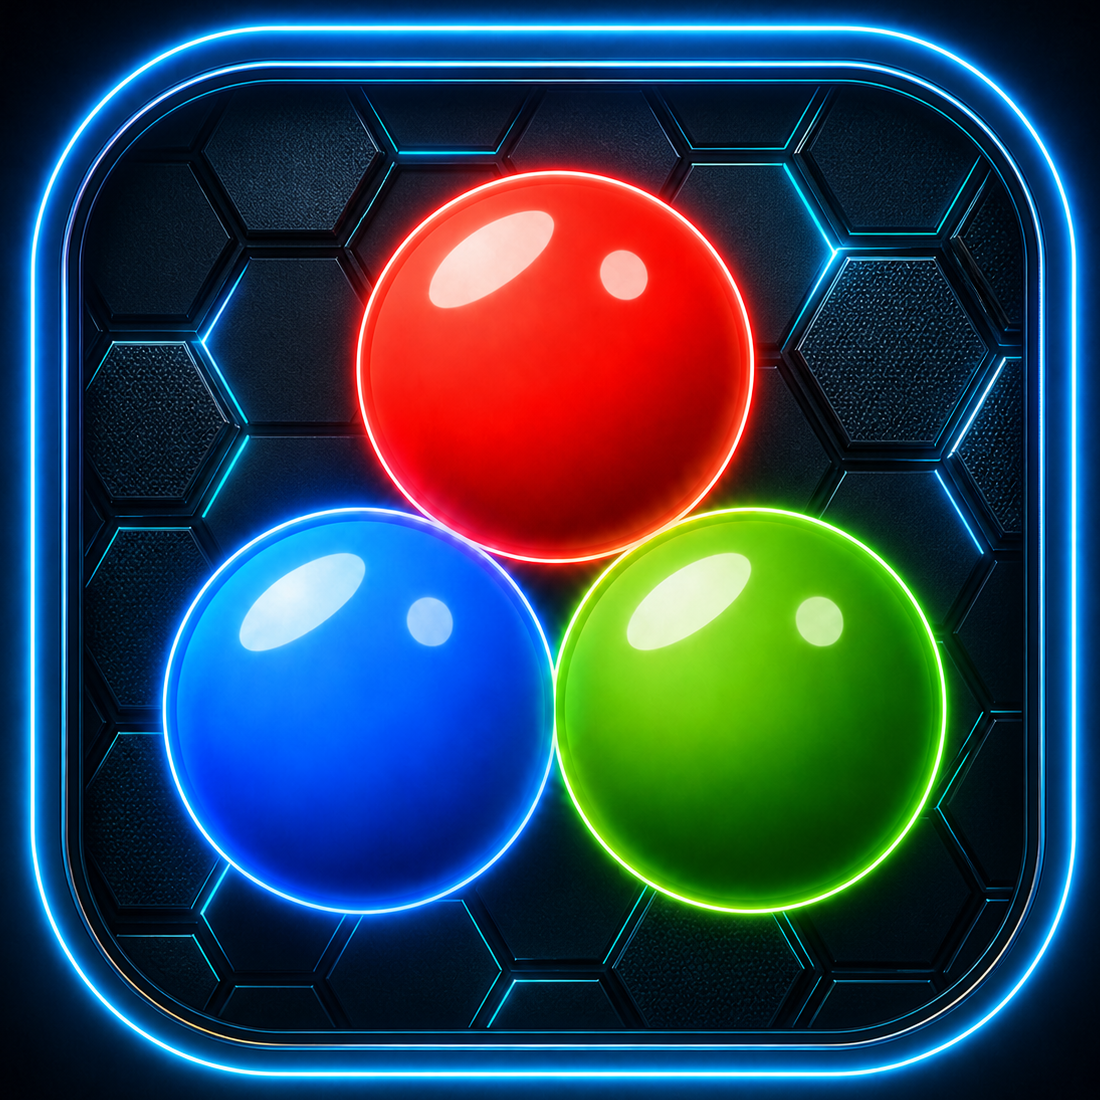
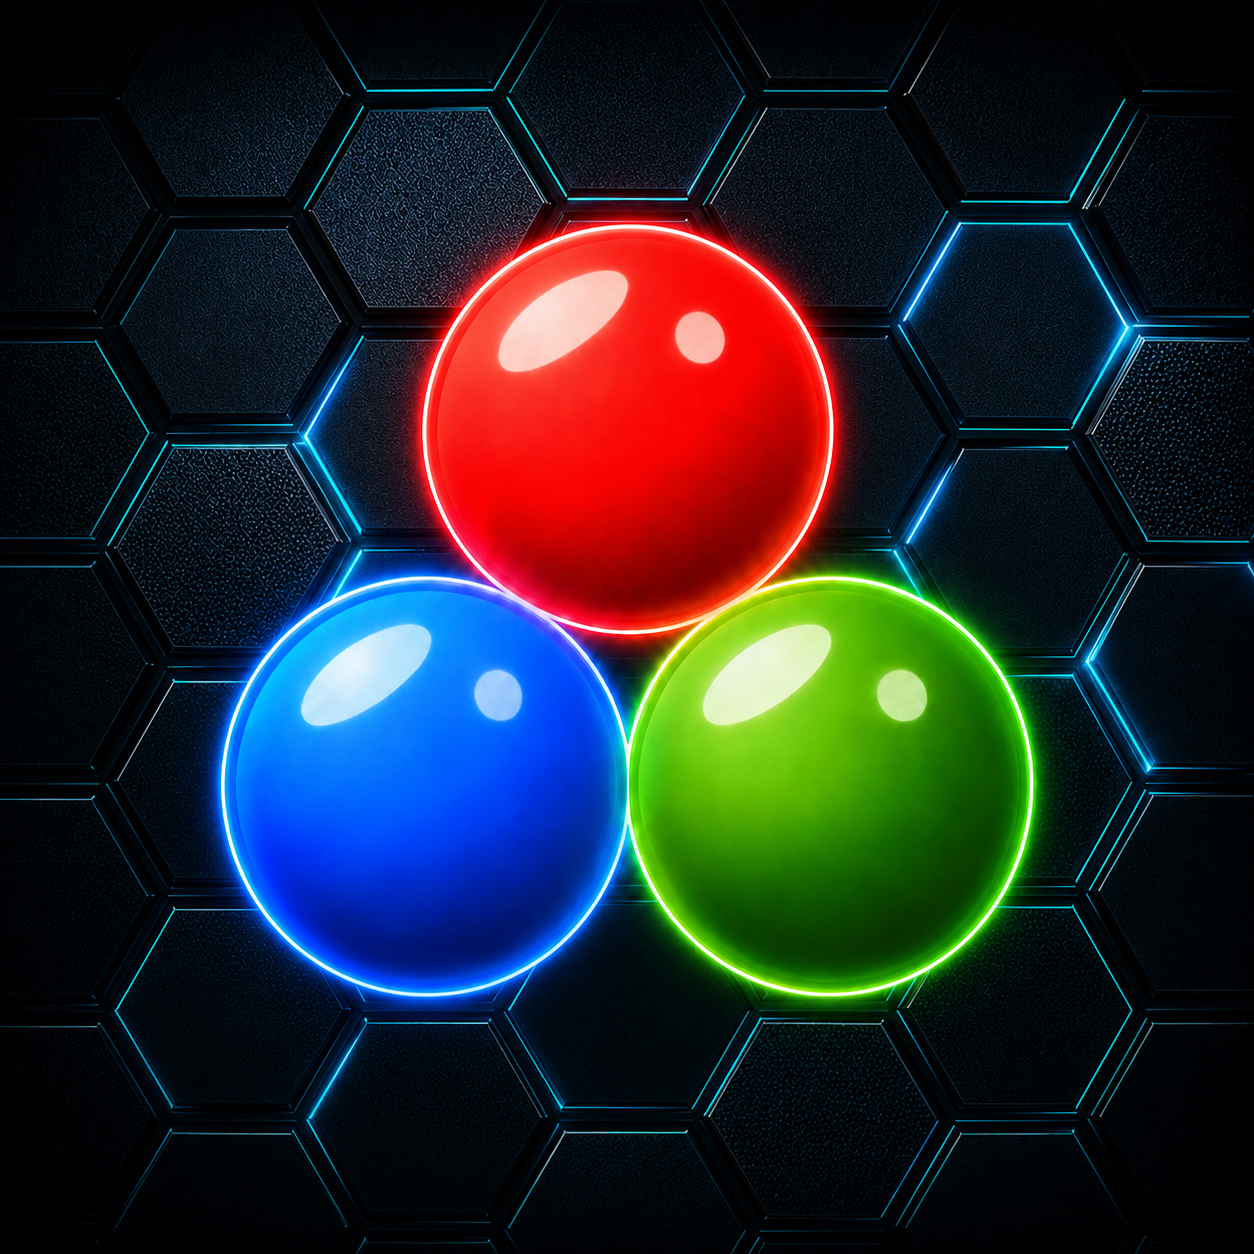
アイコンの変更と色々修正

diff --git a/lib/ui/game_screen.dart b/lib/ui/game_screen.dart
@@ -3345,6 +3345,7 @@ class _GameScreenState extends State<GameScreen> with WidgetsBindingObserver {
             currentX - startX >= targetDistance) {
           _tutorialRightMoveActive = false;
           _playerGame.stopMovingRight();
+          _playerGame.setFixedPieceX(startX + targetDistance);
           setState(() => _tutorialPhase = _TutorialPhase.step2Rotate);
         }
       case _TutorialPhase.step2Rotate:
@@ -3422,6 +3423,7 @@ class _GameScreenState extends State<GameScreen> with WidgetsBindingObserver {
       if (currentX != null && currentX - startX >= targetDistance) {
         _tutorialRightMoveActive = false;
         _playerGame.stopMovingRight();
+        _playerGame.setFixedPieceX(startX + targetDistance);
         setState(() => _tutorialPhase = _TutorialPhase.step1Drop);
         return;
       }
@@ -3443,6 +3445,7 @@ class _GameScreenState extends State<GameScreen> with WidgetsBindingObserver {
       if (currentX != null && currentX - startX >= targetDistance) {
         _tutorialRightMoveActive = false;
         _playerGame.stopMovingRight();
+        _playerGame.setFixedPieceX(startX + targetDistance);
         setState(() => _tutorialPhase = _TutorialPhase.step2Rotate);
         return;
       }
@@ -3482,13 +3485,13 @@ class _GameScreenState extends State<GameScreen> with WidgetsBindingObserver {
     if (_tutorialPhase == _TutorialPhase.step1Drop) {
       setState(() => _tutorialPhase = _TutorialPhase.step1Clear);
       _scheduleTutorial(
-        const Duration(milliseconds: 950),
+        const Duration(milliseconds: 1950),
         _setupTutorialStep2,
       );
     } else if (_tutorialPhase == _TutorialPhase.step2Drop) {
       setState(() => _tutorialPhase = _TutorialPhase.step2Clear);
       _scheduleTutorial(
-        const Duration(milliseconds: 1800),
+        const Duration(milliseconds: 3300),
         _setupTutorialStep3Incoming,
       );
     } else if (_tutorialPhase == _TutorialPhase.step3Drop) {
@@ -3504,7 +3507,7 @@ class _GameScreenState extends State<GameScreen> with WidgetsBindingObserver {
       HexCoordinate(7, 8),
       HexCoordinate(8, 8),
     ]);
-    _scheduleTutorial(const Duration(milliseconds: 950), () {
+    _scheduleTutorial(const Duration(milliseconds: 1950), () {
       if (!mounted) {
         return;
       }
@@ -3520,7 +3523,7 @@ class _GameScreenState extends State<GameScreen> with WidgetsBindingObserver {
       HexCoordinate(8, 10),
     ]);
     _scheduleTutorial(
-      const Duration(milliseconds: 1150),
+      const Duration(milliseconds: 2650),
       _setupTutorialStep3Incoming,
     );
   }

diff --git a/lib/data/player_data_manager.dart b/lib/data/player_data_manager.dart
@@ -441,10 +441,13 @@ class PlayerDataManager {
         .toSet();
     final hasRequiredRewardedMissions =
         MissionCatalog.rewardedAdMissionIds.every(missionIds.contains);
+    final hasTemporarilyDisabledMissions =
+        missionIds.any(MissionCatalog.isTemporarilyDisabledMissionId);
 
     if (_lastDailyReset != today ||
         _currentMissions.length != 4 ||
         !hasRequiredRewardedMissions ||
+        hasTemporarilyDisabledMissions ||
         _dailyShopItems.length != 3) {
       _lastDailyReset = today;
       _currentMissions = _generateDailyMissions();
@@ -898,10 +901,11 @@ class PlayerDataManager {
   }
 
   List<Map<String, dynamic>> _generateDailyMissions() {
-    final rewardedMission = MissionCatalog.dailyPool.firstWhere(
+    final activeDailyPool = MissionCatalog.activeDailyPool;
+    final rewardedMission = activeDailyPool.firstWhere(
       (mission) => mission.id == MissionCatalog.rewardedAdMissionIds.first,
     );
-    final pool = MissionCatalog.dailyPool
+    final pool = activeDailyPool
         .where((mission) => !MissionCatalog.isRewardedAdMissionId(mission.id))
         .toList()
       ..shuffle(_random);
@@ -949,7 +953,8 @@ class PlayerDataManager {
         changed = true;
       }
     }
-    final allowedItemIds = GameItemCatalog.allItems.map((item) => item.id).toSet();
+    final allowedItemIds =
+        GameItemCatalog.allItems.map((item) => item.id).toSet();
     final filteredItems =
         _ownedItems.where((item) => allowedItemIds.contains(item.id)).toList();
     if (filteredItems.length != _ownedItems.length) {

diff --git a/lib/ui/home_screen.dart b/lib/ui/home_screen.dart
@@ -1288,7 +1288,7 @@ class _HomeScreenState extends State<HomeScreen>
       context: context,
       builder: (dialogContext) {
         return _buildCyberDialog(
-          title: 'LEVEL STATUS',
+          title: 'レベルステータス',
           accentColor: Colors.cyanAccent,
           child: Column(
             mainAxisSize: MainAxisSize.min,
@@ -1314,7 +1314,7 @@ class _HomeScreenState extends State<HomeScreen>
                   crossAxisAlignment: CrossAxisAlignment.start,
                   children: [
                     Text(
-                      'CURRENT LEVEL  $currentLevel',
+                      '現在のレベル  $currentLevel',
                       style: const TextStyle(
                         color: Colors.cyanAccent,
                         fontSize: 18,
@@ -3787,7 +3787,6 @@ class _HomeScreenState extends State<HomeScreen>
                     color: const Color(0xFFEAF6FF),
                     iconSize: 22,
                     fontSize: 20,
-                    prefix: '+',
                   ),
                   const SizedBox(width: 6),
                   const Text(

diff --git a/lib/game/mission_catalog.dart b/lib/game/mission_catalog.dart
@@ -34,6 +34,9 @@ class MissionCatalog {
 
   static const List<String> rewardedAdMissionIds = ['watch_rewarded_ad_1'];
   static const List<String> loginRewardMissionIds = ['login_bonus_1'];
+  static const List<String> temporarilyDisabledMissionIds = [
+    'win_arena_match_1',
+  ];
 
   static bool isRewardedAdMissionId(String id) {
     return rewardedAdMissionIds.contains(id);
@@ -41,6 +44,16 @@ class MissionCatalog {
 
   static bool isLoginRewardMissionId(String id) {
     return loginRewardMissionIds.contains(id);
+  }
+
+  static bool isTemporarilyDisabledMissionId(String id) {
+    return temporarilyDisabledMissionIds.contains(id);
+  }
+
+  static List<MissionDefinition> get activeDailyPool {
+    return dailyPool
+        .where((mission) => !isTemporarilyDisabledMissionId(mission.id))
+        .toList(growable: false);
   }
 
   static String? localizedTitleForId(String id) {

diff --git a/lib/game/puzzle_game.dart b/lib/game/puzzle_game.dart
@@ -727,6 +727,19 @@ class PuzzleGame extends FlameGame with KeyboardEvents {
 
   double? get activePieceX => activePiece?.position.x;
 
+  void setFixedPieceX(double x) {
+    if (activePiece == null || activePiece!.isLocked) {
+      return;
+    }
+    activePiece!.position.x = x;
+    if (ghostPiece != null) {
+      ghostPiece!.position.x = x;
+    }
+    _enforceBounds();
+    _updateGhostPosition();
+    _notifyActivePieceState(force: true, action: 'set_x');
+  }
+
   void setFixedPieceColumn(int column) {
     if (activePiece == null || activePiece!.isLocked) {
       return;

diff --git a/lib/ui/ranking_screen.dart b/lib/ui/ranking_screen.dart
@@ -123,7 +123,7 @@ class _RankingScreenState extends State<RankingScreen> {
             mainAxisAlignment: MainAxisAlignment.center,
             mainAxisSize: MainAxisSize.min,
             children: [
-              HexagonTrophyIcon(size: 22),
+              HexagonTrophyIcon(size: 33),
               SizedBox(width: 10),
               _RankingPageTitle(
                 title: 'ランキング',

diff --git a/lib/game/mission_manager.dart b/lib/game/mission_manager.dart
@@ -102,7 +102,7 @@ class MissionManager {
         missions.map((mission) => mission['id']?.toString() ?? '').toSet();
     currentIds.remove(missions[index]['id']?.toString() ?? '');
 
-    final candidates = MissionCatalog.dailyPool
+    final candidates = MissionCatalog.activeDailyPool
         .where(
           (mission) =>
               !MissionCatalog.isRewardedAdMissionId(mission.id) &&
